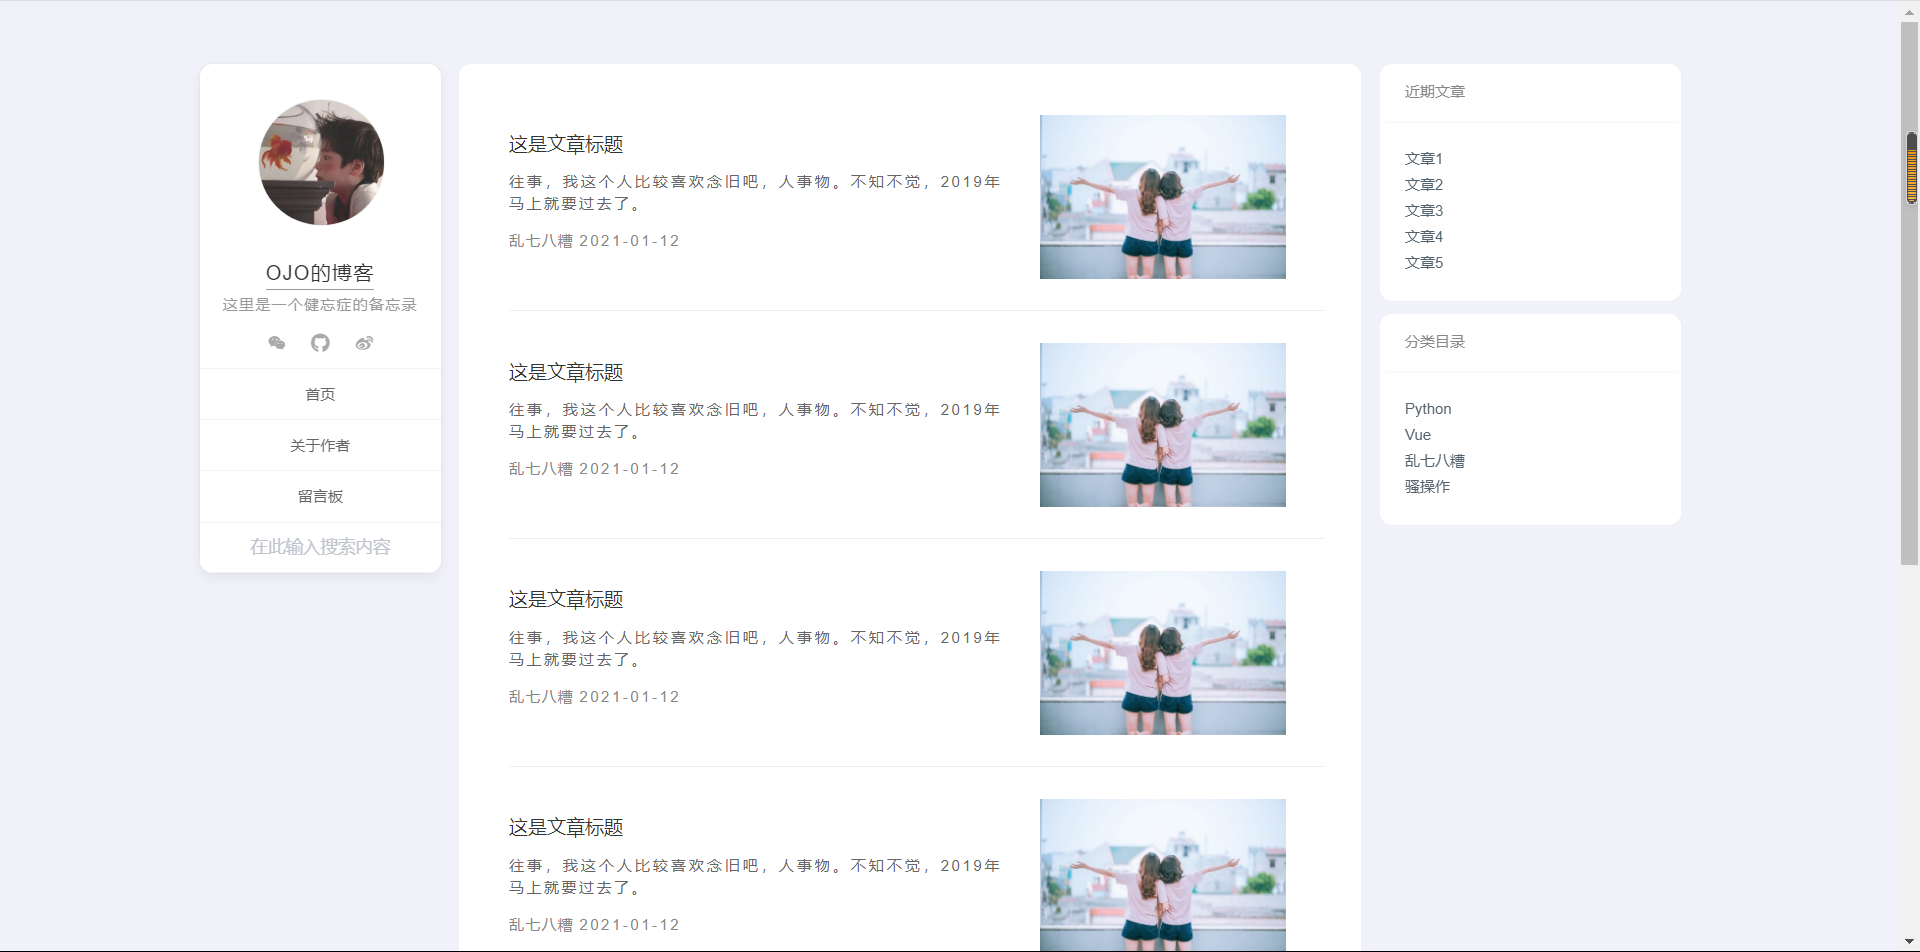
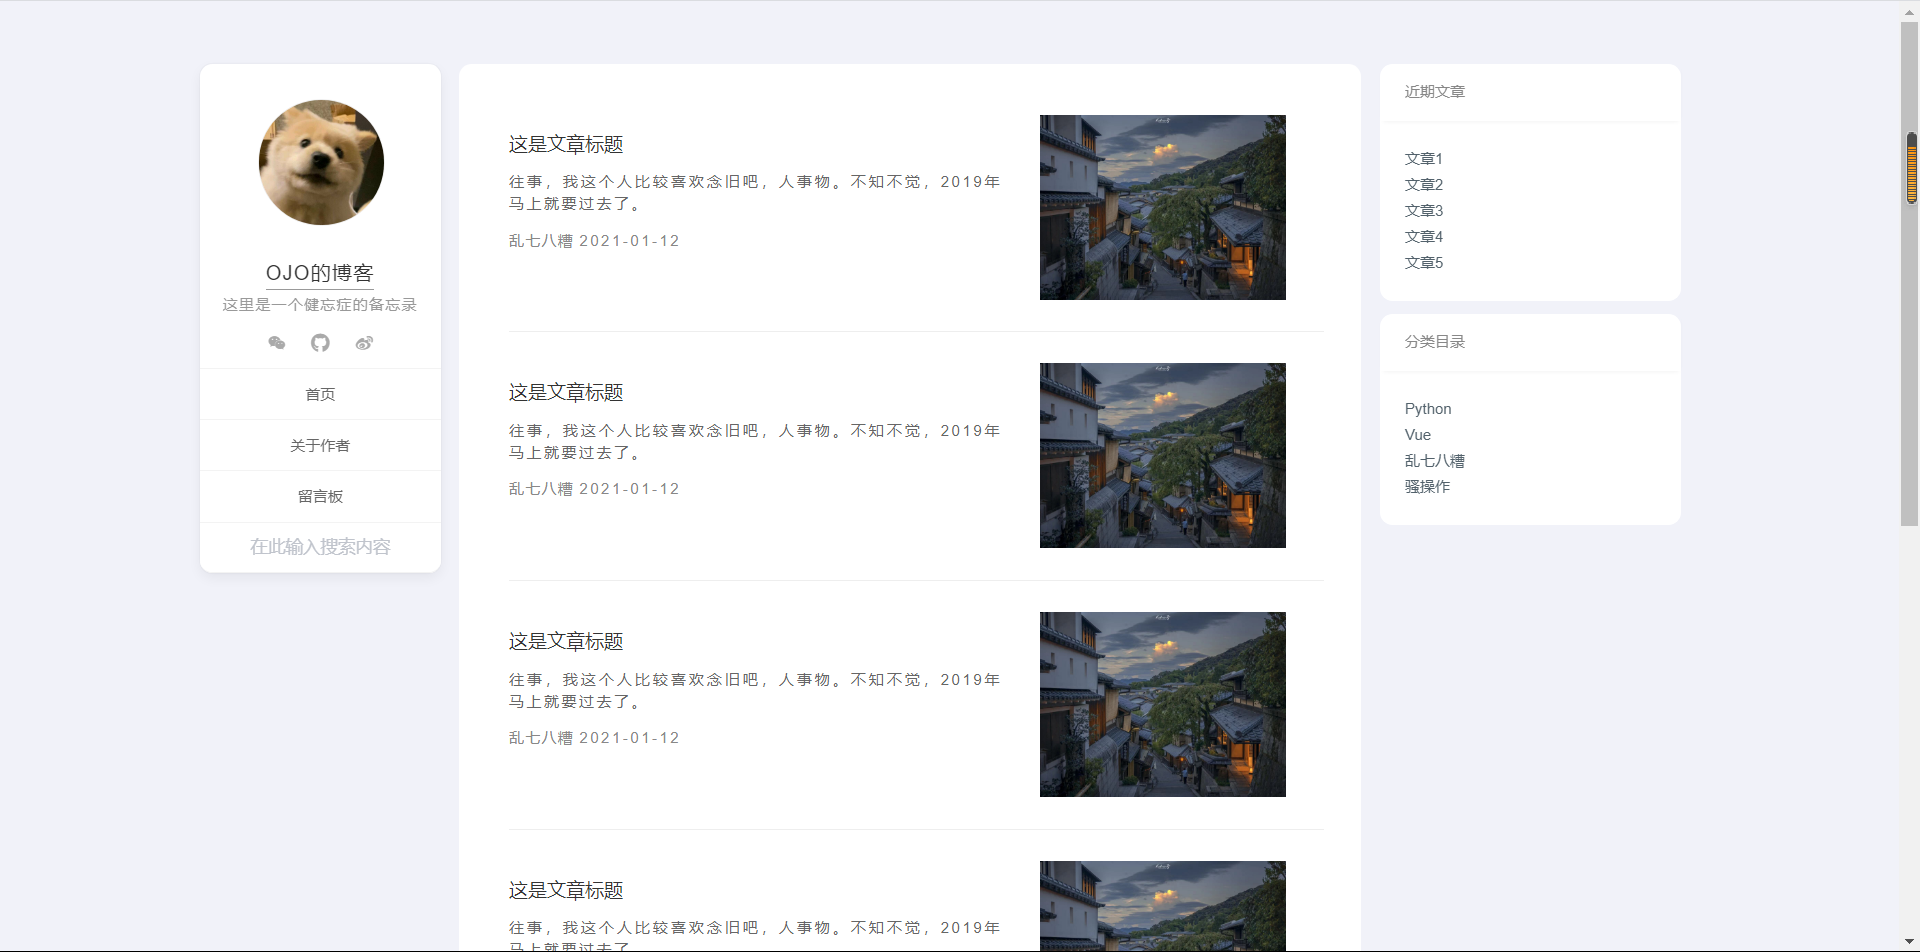
添加图片

diff --git a/src/components/article-item/HomePage.vue b/src/components/article-item/HomePage.vue
@@ -14,7 +14,7 @@
         </div>
         <div class="cover">
           <img
-            src="http://demo.qzhai.net/gohan/wp-content/uploads/2020/03/casual-cute-female-friends-206409-scaled-500x333.jpg">
+            :src="cover">
         </div>
       </li>
       <li class="article-item">
@@ -30,7 +30,7 @@
         </div>
         <div class="cover">
           <img
-            src="http://demo.qzhai.net/gohan/wp-content/uploads/2020/03/casual-cute-female-friends-206409-scaled-500x333.jpg">
+            :src="cover">
         </div>
       </li>
       <li class="article-item">
@@ -46,7 +46,7 @@
         </div>
         <div class="cover">
           <img
-            src="http://demo.qzhai.net/gohan/wp-content/uploads/2020/03/casual-cute-female-friends-206409-scaled-500x333.jpg">
+            :src="cover">
         </div>
       </li>
       <li class="article-item">
@@ -62,7 +62,7 @@
         </div>
         <div class="cover">
           <img
-            src="http://demo.qzhai.net/gohan/wp-content/uploads/2020/03/casual-cute-female-friends-206409-scaled-500x333.jpg">
+            :src="cover">
         </div>
       </li>
       <li class="article-item">
@@ -78,7 +78,7 @@
         </div>
         <div class="cover">
           <img
-            src="http://demo.qzhai.net/gohan/wp-content/uploads/2020/03/casual-cute-female-friends-206409-scaled-500x333.jpg">
+            :src="cover">
         </div>
       </li>
       <li class="article-item" @click="jump">
@@ -94,7 +94,7 @@
         </div>
         <div class="cover">
           <img
-            src="http://demo.qzhai.net/gohan/wp-content/uploads/2020/03/casual-cute-female-friends-206409-scaled-500x333.jpg">
+            :src="cover">
         </div>
       </li>
     </ul>
@@ -107,10 +107,11 @@ export default {
   name: "HomePage",
   data() {
     return {
-      'title': '这是文章标题',
-      'summary': '往事，我这个人比较喜欢念旧吧，人事物。不知不觉，2019年马上就要过去了。',
-      'articleCategory': '乱七八糟',
-      'articleDate': '2021-01-12'
+      title: '这是文章标题',
+      summary: '往事，我这个人比较喜欢念旧吧，人事物。不知不觉，2019年马上就要过去了。',
+      articleCategory: '乱七八糟',
+      articleDate: '2021-01-12',
+      cover: require('../../../static/test2.jpg'),
     }
   },
   methods: {

diff --git a/src/components/Menu.vue b/src/components/Menu.vue
@@ -4,7 +4,7 @@
       <!--头像-->
       <div class="menu_head">
         <div class="avatar">
-          <img src="https://www.clingclang.cn/wp-content/uploads/2020/12/head.jpg">
+          <img :src="avatar">
         </div>
       </div>
       <!--标题及描述-->
@@ -64,6 +64,7 @@ import '@/icon/iconfont.css'
     name: "Menu",
     data(){
       return{
+        avatar: require('../../static/avatar.jpg'),
         screenWidth: document.body.clientWidth,
         grid_width:0,
         search_kw:'',

diff --git a/README.md b/README.md
@@ -7,5 +7,10 @@
 
 # 图片展示
 ![主页](./show/1.png)
+主页
 ![文章页1](./show/2.png)
+文章页头部
 ![文章页2](./show/3.png)
+文章页尾部
+![移动端](./show/4.png)
+移动端显示
